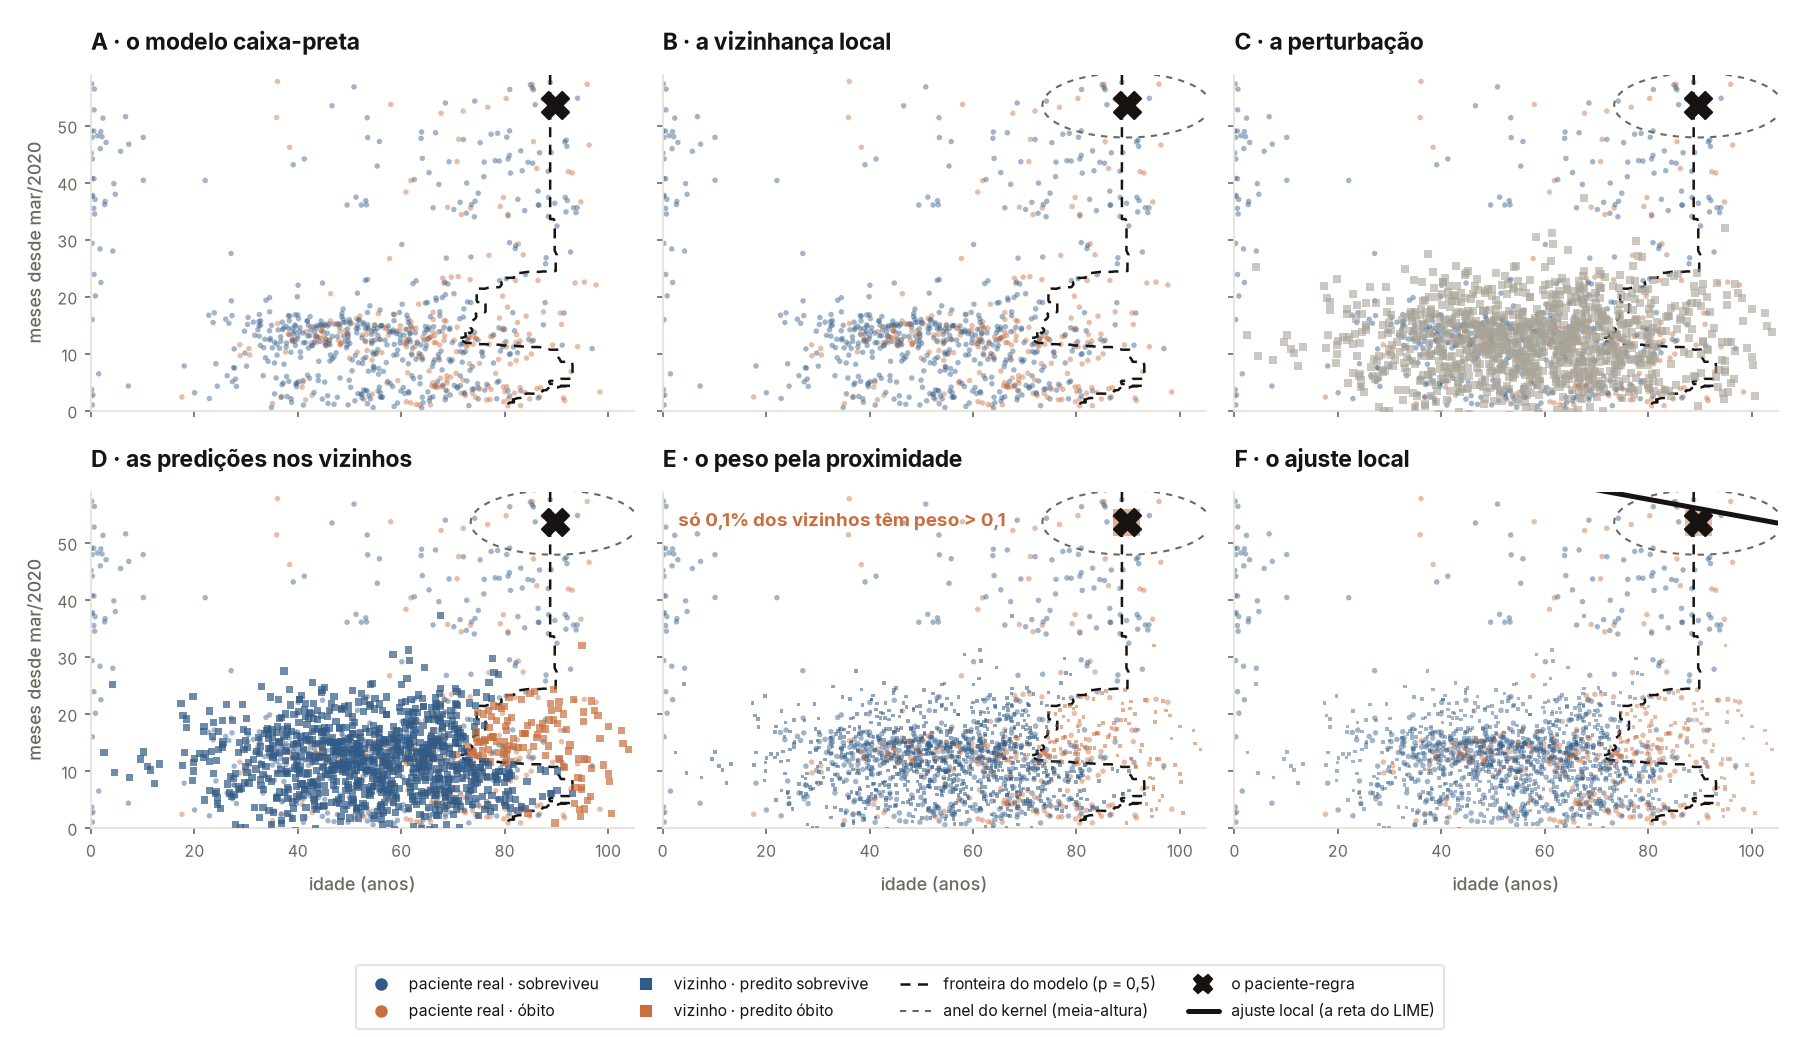
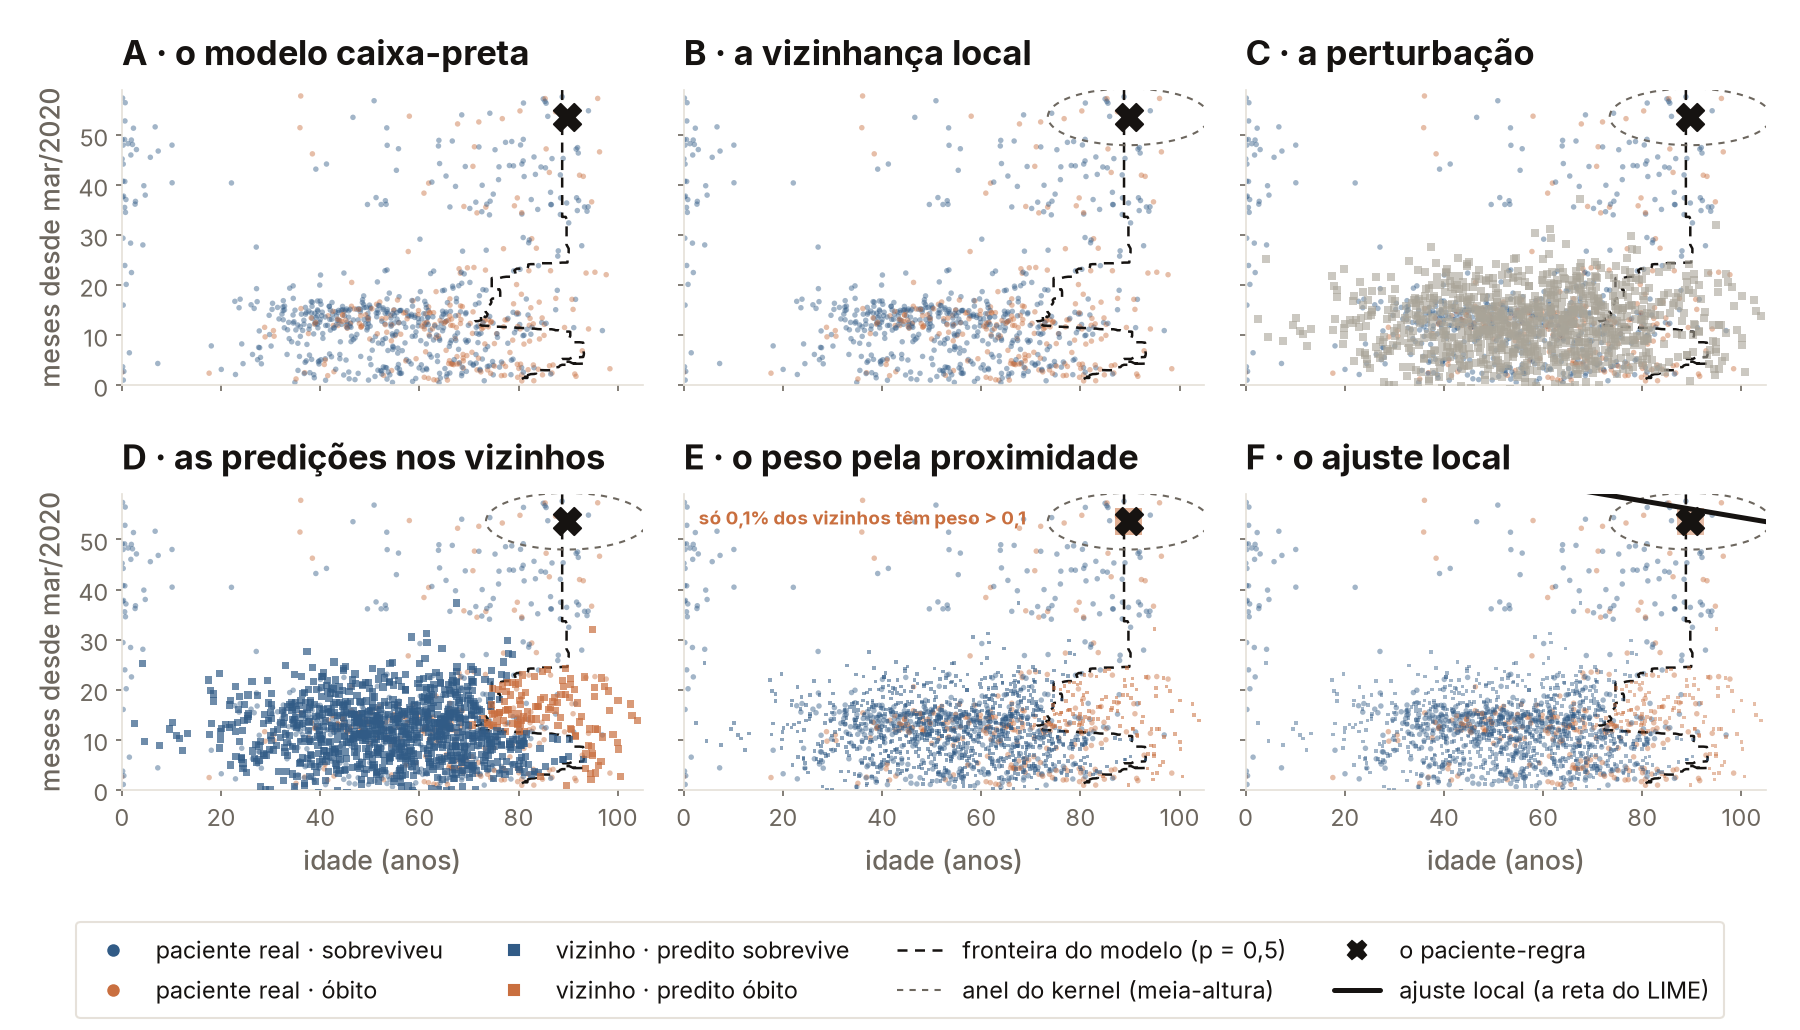
feat(reports): gerar_figuras.py re-renderiza as sete figuras do relatório em escala legível
Roda os cinco walkthroughs fora da árvore (nunca --inplace) com
SAPIANS_ESCALA_TEXTO=1.5 (1.35 nos módulos 01 e 05, onde 1.5 cortava um tick
ou um rótulo), recorta o cabeçalho com a mesma função de recortar_figuras.py e
escreve em figuras/. shap_passo_5_dependencia fica na escala do caderno: o
rótulo vertical da barra de cor não cabe no canvas em escala maior. Cadernos
e modules/*/figures/ intocados; 68 s nesta máquina.

diff --git a/reports/01-metodos-locais/gerar_figuras.py b/reports/01-metodos-locais/gerar_figuras.py
@@ -1,0 +1,188 @@
+#!/usr/bin/env python3
+"""Regenera as 7 figuras do relatório numa escala de texto legível a 170 mm.
+
+`recortar_figuras.py` corta o cabeçalho das figuras já commitadas em
+modules/NN-slug/figures/: certas para o caderno (9,6 a 12 pol.), pequenas
+demais depois que o Typst as encolhe para a coluna do artigo (170 mm), onde um
+rótulo de tick de 7,5 pt sai a 4,2 a 5,2 pt impressos. Este script roda os 5
+walkthroughs de novo, FORA da árvore (nunca --inplace), com
+SAPIANS_ESCALA_TEXTO=1.5 (1.35 onde 1.5 não cabe; ver ESCALA_POR_CADERNO), a
+mesma figura com letra maior, e corta com a MESMA função de
+recortar_figuras.py. Uma figura fica na escala 1,0 (ver SEM_ESCALA). Os cadernos e modules/*/figures/ não mudam:
+figures_generated/ de cada caderno é git-ignored e só este script lê de lá.
+
+NÃO rode recortar_figuras.py depois deste script: ele lê modules/*/figures/
+(escala 1,0) e reescreveria por cima os PNGs legíveis com os pequenos.
+
+    python3 reports/01-metodos-locais/gerar_figuras.py
+    python3 reports/01-metodos-locais/gerar_figuras.py --sem-executar
+    python3 reports/01-metodos-locais/gerar_figuras.py --escala 1.35 --so lime
+"""
+
+import argparse
+import os
+import pathlib
+import subprocess
+import sys
+import tempfile
+import time
+
+from PIL import Image
+
+sys.path.insert(0, str(pathlib.Path(__file__).resolve().parent))
+from recortar_figuras import altura_do_cabecalho  # a MESMA detecção de corte
+
+REPO = pathlib.Path(__file__).resolve().parents[2]
+JUPYTER = REPO / ".venv" / "bin" / "jupyter"
+SAIDA = REPO / "reports" / "01-metodos-locais" / "figuras"
+ESCALA_PADRAO = "1.5"
+# Por caderno, quando 1,5 não cabe: a banda do título e os rótulos com
+# `fontsize=` fixo não escalam, e a 1,5 o corte levava o tick de cima do
+# cp_passo_4 e o rótulo da barra de cor do shap_passo_5 saía do canvas.
+ESCALA_POR_CADERNO = {"cp": "1.35", "shap": "1.35"}
+# Figuras que ficam na escala 1,0, recortadas da figura commitada do módulo:
+# o rótulo vertical da barra de cor do shap_passo_5 não cabe no canvas em
+# nenhuma escala acima de 1,0 (medido 2026-09-04: cortado nas duas pontas).
+SEM_ESCALA = {
+    "shap_passo_5_dependencia": "modules/05-shap/figures/shap_passo_5_dependencia.png",
+}
+TIMEOUT_CELULA = 1200  # s por célula, o mesmo valor de .github/workflows/ci.yml
+# medido 2026-09-04: 68s nesta máquina (lime 22 + shap 22 + cf 9 + cp 8 + ice 7)
+
+CADERNOS = {
+    "cp": (
+        "modules/01-ceteris-paribus/notebooks/cp_walkthrough.ipynb",
+        ["cp_passo_1b_modelos", "cp_passo_4_restrito"],
+    ),
+    "ice": ("modules/02-ice/notebooks/ice_walkthrough.ipynb", ["ice_passo_1_feixe"]),
+    "lime": (
+        "modules/03-lime/notebooks/lime_walkthrough.ipynb",
+        ["lime_passo_a_passo"],
+    ),
+    "cf": (
+        "modules/04-counterfactual/notebooks/cf_walkthrough.ipynb",
+        ["cf_passo_3_painel"],
+    ),
+    "shap": (
+        "modules/05-shap/notebooks/shap_walkthrough.ipynb",
+        ["shap_passo_1_waterfall", "shap_passo_5_dependencia"],
+    ),
+}
+
+
+def executar(nb_rel: str, escala: str, scratch: str) -> None:
+    """Roda `nb_rel` FORA da árvore, com o texto na escala `escala`.
+
+    Sem `--ExecutePreprocessor.cwd`: o cwd do kernel precisa ser a própria
+    pasta do caderno (o default do nbconvert), senão a célula de setup não
+    acha `tools/` pelo sentinela de caminho e cai no `git clone` do Colab.
+    """
+    ambiente = os.environ | {
+        "SAPIANS_ESCALA_TEXTO": escala,
+        "PIP_DISABLE_PIP_VERSION_CHECK": "1",
+    }
+    subprocess.run(
+        [
+            str(JUPYTER),
+            "nbconvert",
+            "--to",
+            "notebook",
+            "--execute",
+            f"--ExecutePreprocessor.timeout={TIMEOUT_CELULA}",
+            "--output-dir",
+            scratch,
+            nb_rel,
+        ],
+        cwd=REPO,
+        check=True,
+        env=ambiente,
+    )
+
+
+def cortar(origem: pathlib.Path, destino: pathlib.Path) -> None:
+    """Recorta o cabeçalho de `origem` com a MESMA função de recortar_figuras.py."""
+    if not origem.exists():
+        raise SystemExit(f"AUSENTE  {origem}")
+    im = Image.open(origem)
+    corte = altura_do_cabecalho(im)
+    if not 0 < corte < im.height * 0.30:
+        raise SystemExit(f"SUSPEITO {origem.name}: corte em {corte} de {im.height}")
+    im.crop((0, corte, im.width, im.height)).save(destino)
+    print(
+        f"{origem.name:<32} cabeçalho de {corte}px "
+        f"({100 * corte / im.height:.0f}%) removido"
+    )
+
+
+def main() -> int:
+    ap = argparse.ArgumentParser(description=__doc__.splitlines()[0])
+    ap.add_argument(
+        "--escala",
+        default=None,
+        help="força este fator de SAPIANS_ESCALA_TEXTO em todos os cadernos "
+        "(default: 1,5, ou o valor de ESCALA_POR_CADERNO)",
+    )
+    ap.add_argument(
+        "--sem-executar",
+        action="store_true",
+        help="pula o nbconvert; reusa o figures_generated/ já no lugar",
+    )
+    ap.add_argument(
+        "--so",
+        action="append",
+        choices=list(CADERNOS),
+        metavar="CADERNO",
+        help="roda/recorta só este caderno (repetível); default: os 5",
+    )
+    args = ap.parse_args()
+    chaves = [c for c in CADERNOS if not args.so or c in args.so]
+
+    SAIDA.mkdir(parents=True, exist_ok=True)
+    with tempfile.TemporaryDirectory(prefix="sapians-relatorio-") as scratch:
+        for chave in chaves:
+            nb_rel, nomes_base = CADERNOS[chave]
+            escala = args.escala or ESCALA_POR_CADERNO.get(chave, ESCALA_PADRAO)
+            if not args.sem_executar:
+                msg = f"[{chave}] executando {nb_rel} (escala {escala})..."
+                print(msg, file=sys.stderr)
+                inicio = time.monotonic()
+                executar(nb_rel, escala, scratch)
+                print(f"[{chave}] {time.monotonic() - inicio:.0f}s", file=sys.stderr)
+            pasta = REPO / pathlib.Path(nb_rel).parent / "figures_generated"
+            for nome_base in nomes_base:
+                if nome_base in SEM_ESCALA:
+                    origem = (
+                        REPO / SEM_ESCALA[nome_base]
+                    )  # figura do módulo, escala 1,0
+                else:
+                    origem = pasta / f"{nome_base}.png"
+                cortar(origem, SAIDA / f"{nome_base}.png")
+
+    # Escopado a notebooks/ e figures/, não a modules/ inteiro: o resto de
+    # modules/ (READMEs, outlines) pode mudar por trabalho concorrente de
+    # outro agente no mesmo worktree, sem relação nenhuma com este script.
+    status = subprocess.run(
+        [
+            "git",
+            "status",
+            "--porcelain",
+            "--",
+            "modules/*/notebooks",
+            "modules/*/figures",
+        ],
+        cwd=REPO,
+        check=True,
+        capture_output=True,
+        text=True,
+    ).stdout
+    if status.strip():
+        print(
+            f"modules/*/notebooks ou modules/*/figures sujo:\n{status}", file=sys.stderr
+        )
+        return 1
+    print("modules/*/notebooks e modules/*/figures intocados")
+    return 0
+
+
+if __name__ == "__main__":
+    raise SystemExit(main())

diff --git a/reports/01-metodos-locais/figuras/README.md b/reports/01-metodos-locais/figuras/README.md
@@ -1,20 +1,34 @@
-# `reports/01-metodos-locais/figuras/` — as figuras dos módulos, preparadas para o relatório
+# `reports/01-metodos-locais/figuras/`
 
-Cópias derivadas dos PNG commitados em `modules/NN-slug/figures/`, com **a
-faixa de cabeçalho removida**.
+As sete figuras do relatório, geradas por
+`reports/01-metodos-locais/gerar_figuras.py`. O script roda os 5 walkthroughs
+de novo, fora da árvore do git, com `SAPIANS_ESCALA_TEXTO=1.5` (a mesma
+figura do caderno, com toda fonte 50% maior; 1.35 nos cadernos 01 e 05, onde a
+1.5 o corte levava um tick e um rótulo saía do canvas) e então recorta o
+cabeçalho com a mesma função de `recortar_figuras.py`, `altura_do_cabecalho`.
+Uma figura fica na escala do caderno: `shap_passo_5_dependencia`, cujo rótulo
+vertical da barra de cor não cabe no canvas em nenhuma escala acima de 1,0; ela
+é o recorte da figura commitada do módulo 05, como antes. As escalas vivem em
+`ESCALA_POR_CADERNO` e a exceção em `SEM_ESCALA`, no próprio script.
 
-As figuras dos módulos trazem, dentro da imagem, um kicker (`§1 · O FEIXE`) e
-uma manchete com o achado — convenção de caderno e de slide, onde a figura
-precisa se explicar sozinha. Num artigo isso duplica a legenda: a manchete
-"Aos 80 anos o feixe vale 0,481 em 2020 e 0,303 em 2024" repete, dentro da
-imagem e com número, o que a `Figura 3:` diz logo abaixo. Periódicos pedem
-figura sem título interno pelo mesmo motivo.
+Por que a escala maior: as figuras de módulo (`modules/NN-slug/figures/`)
+são desenhadas para o caderno, 9,6 a 12 polegadas de largura. O Typst do
+relatório as encolhe para os 170 mm da coluna do artigo, e um rótulo de eixo
+de 7,5 pt sai impresso a 4,2-5,2 pt, ilegível. Gerar a mesma figura maior faz
+o encolhimento chegar num tamanho que ainda se lê.
 
-O corte é automático e mede ~13% da altura em todas: `reports/01-metodos-locais/recortar_figuras.py`
-acha o maior vão branco no terço superior da imagem, que é sempre o espaço
-entre a manchete e a área do gráfico, e corta ali. Rótulos de painel (`A · o
-modelo caixa-preta`) ficam, porque esses um artigo usa.
+Por que o corte: as figuras de módulo trazem, dentro da imagem, um kicker
+(`§1 · O FEIXE`) e uma manchete com o achado, a convenção certa para um
+caderno, onde a figura precisa se explicar sozinha, e a errada para um
+artigo, onde a legenda faz esse trabalho e a manchete vira repetição.
+Rótulos de painel (`A · o modelo caixa-preta`) ficam, porque esses um artigo
+usa.
 
-**As figuras dos módulos não são tocadas.** Este diretório é derivado: apagá-lo
-e rodar o script de novo reproduz tudo. Se uma figura de módulo for regerada,
-rode o script outra vez.
+**Os cadernos e `modules/*/figures/` não mudam.** `gerar_figuras.py` só lê
+de `figures_generated/` de cada caderno, que já é git-ignored; nada é
+escrito de volta em `modules/`. Este diretório é derivado: apagá-lo e rodar
+o script de novo reproduz tudo.
+
+**Não rode `recortar_figuras.py` depois deste script.** Ele lê
+`modules/*/figures/` na escala 1,0 e reescreveria por cima estas figuras
+legíveis com as pequenas.
